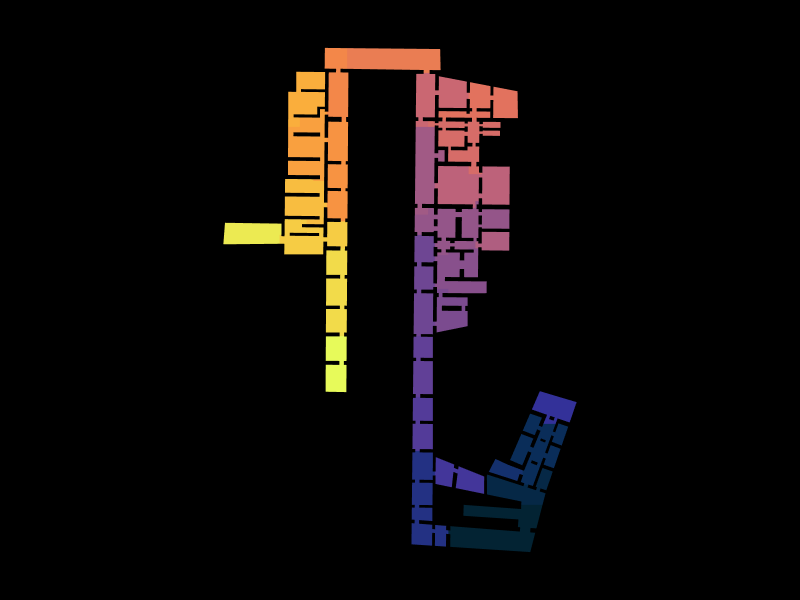
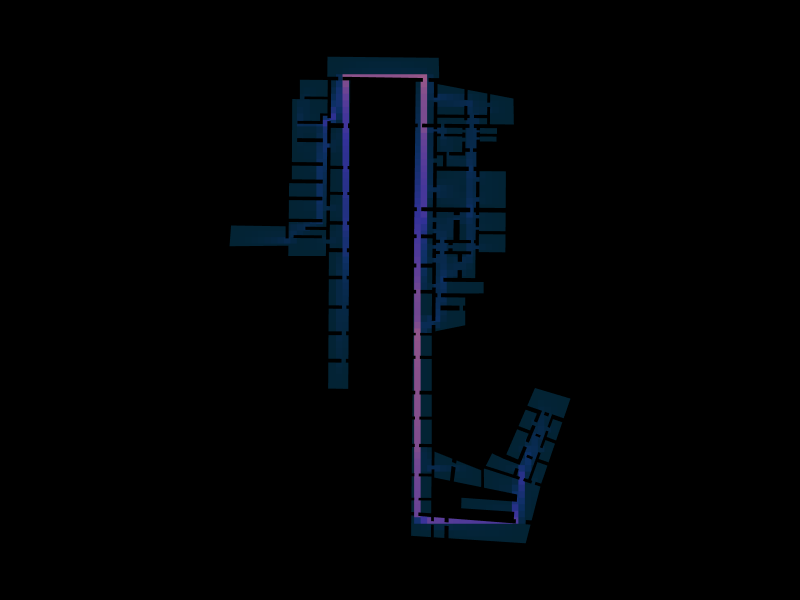
report update

Changed region(s): [[0.2812, 0.06, 0.7188, 0.93]]

diff --git a/Assignment_02_Giovanni-Carlo-Volpe/Assignment_02_Report.md b/Assignment_02_Giovanni-Carlo-Volpe/Assignment_02_Report.md
@@ -19,8 +19,8 @@ Following the methodology discussed in the module, the analysis was broken down 
 
 #### 2.1 Global Metrics: Closeness and Betweenness Centrality
 To understand the underlying hierarchy of the gallery's spaces, foundational graph metrics were calculated:
-*   **Closeness Centrality (Integration):** Measures how "integrated" a space is relative to the rest of the building. In the Uffizi, this helps identify the "center of gravity" of the layout—the spaces that require the least amount of walking to reach from all other rooms.
-*   **Betweenness Centrality (Choice):** This metric identifies "bridges" or "bottlenecks." Because the Uffizi has long corridors with single points of entry to specific wings, high betweenness values highlight critical flow corridors where the majority of visitor traffic inevitably converges. 
+*   **Closeness Centrality:** Measures how "integrated" a space is relative to the rest of the building. In the Uffizi, this helps identify the "center of gravity" of the layout—the spaces that require the least amount of walking to reach from all other rooms.
+*   **Betweenness Centrality:** This metric identifies "bridges" or "bottlenecks." Because the Uffizi has long corridors with single points of entry to specific wings, high betweenness values highlight critical flow corridors where the majority of visitor traffic inevitably converges. 
 
 ![Betweenness Centrality](Visuals/14.%20Betweenness%20Centrality.png)
 *Figure 3: Betweenness Centrality mapping, highlighting critical flow bottlenecks.*
